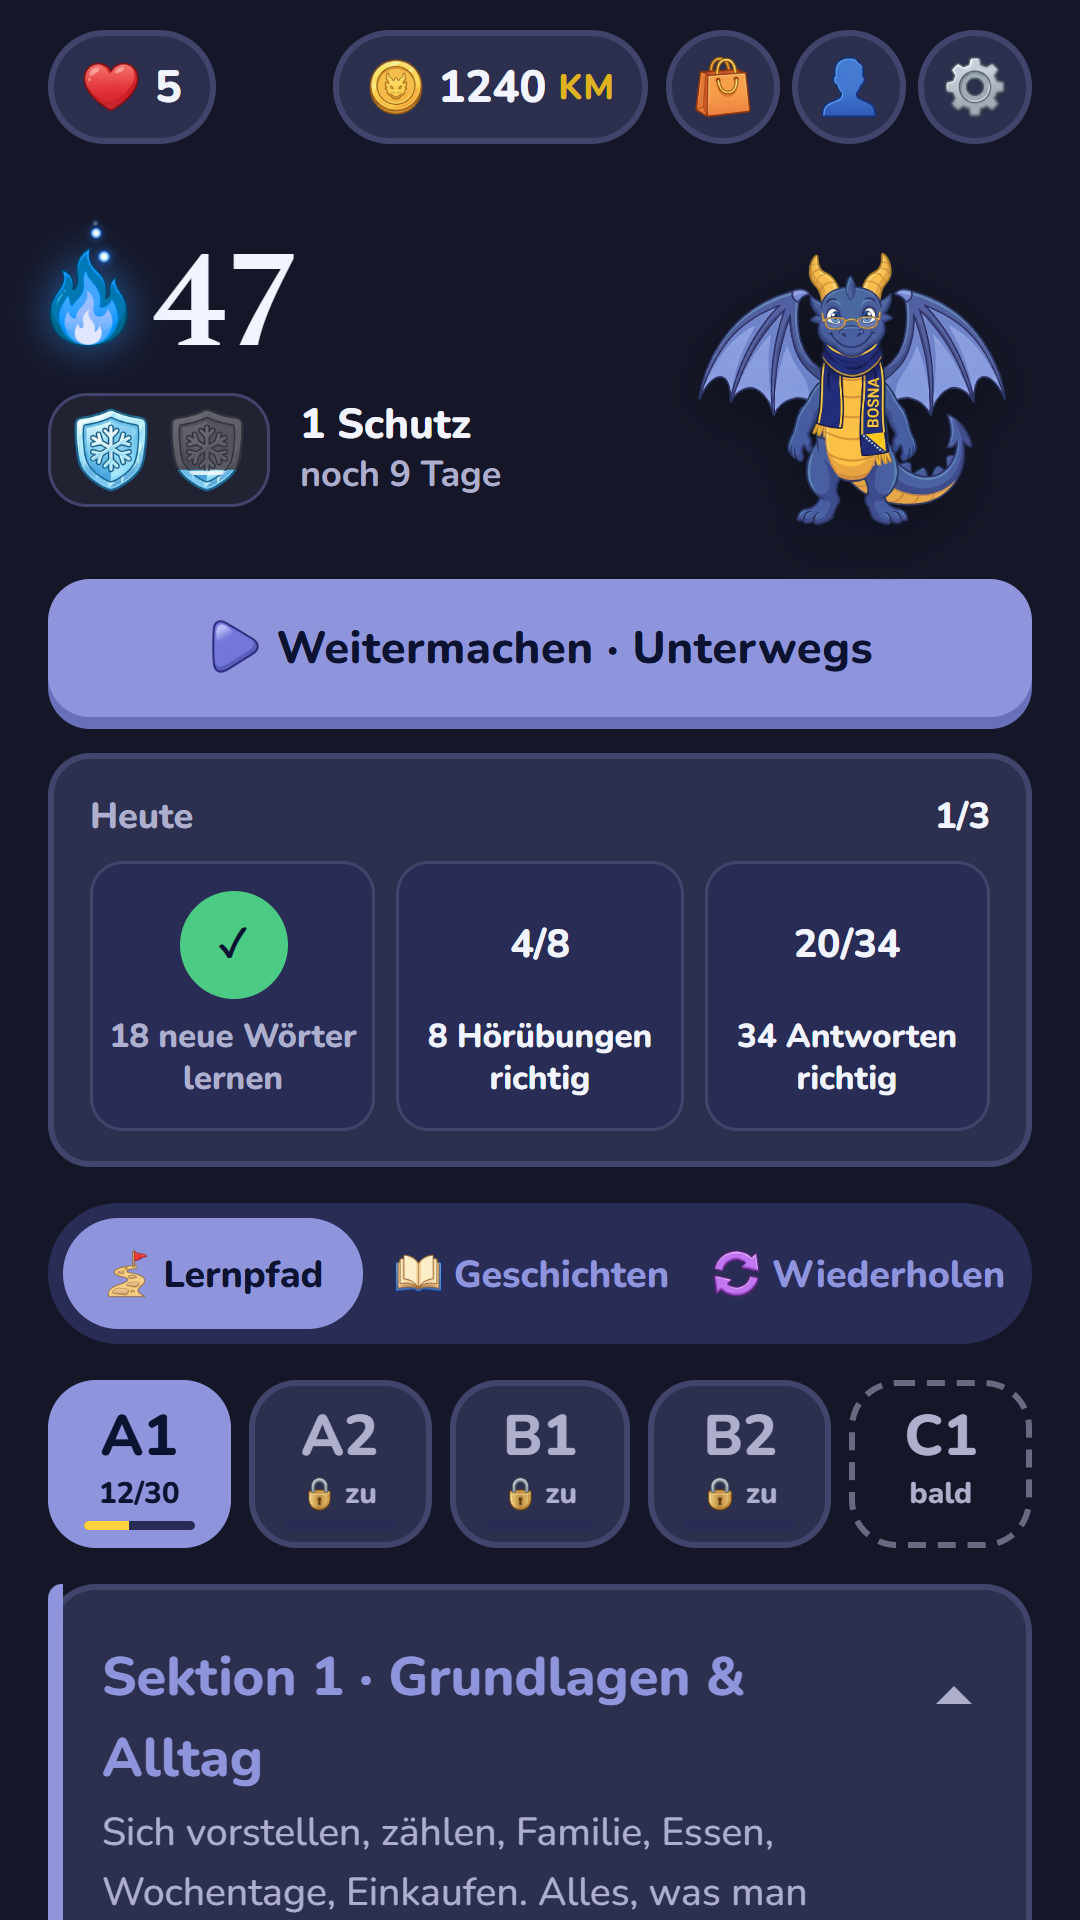
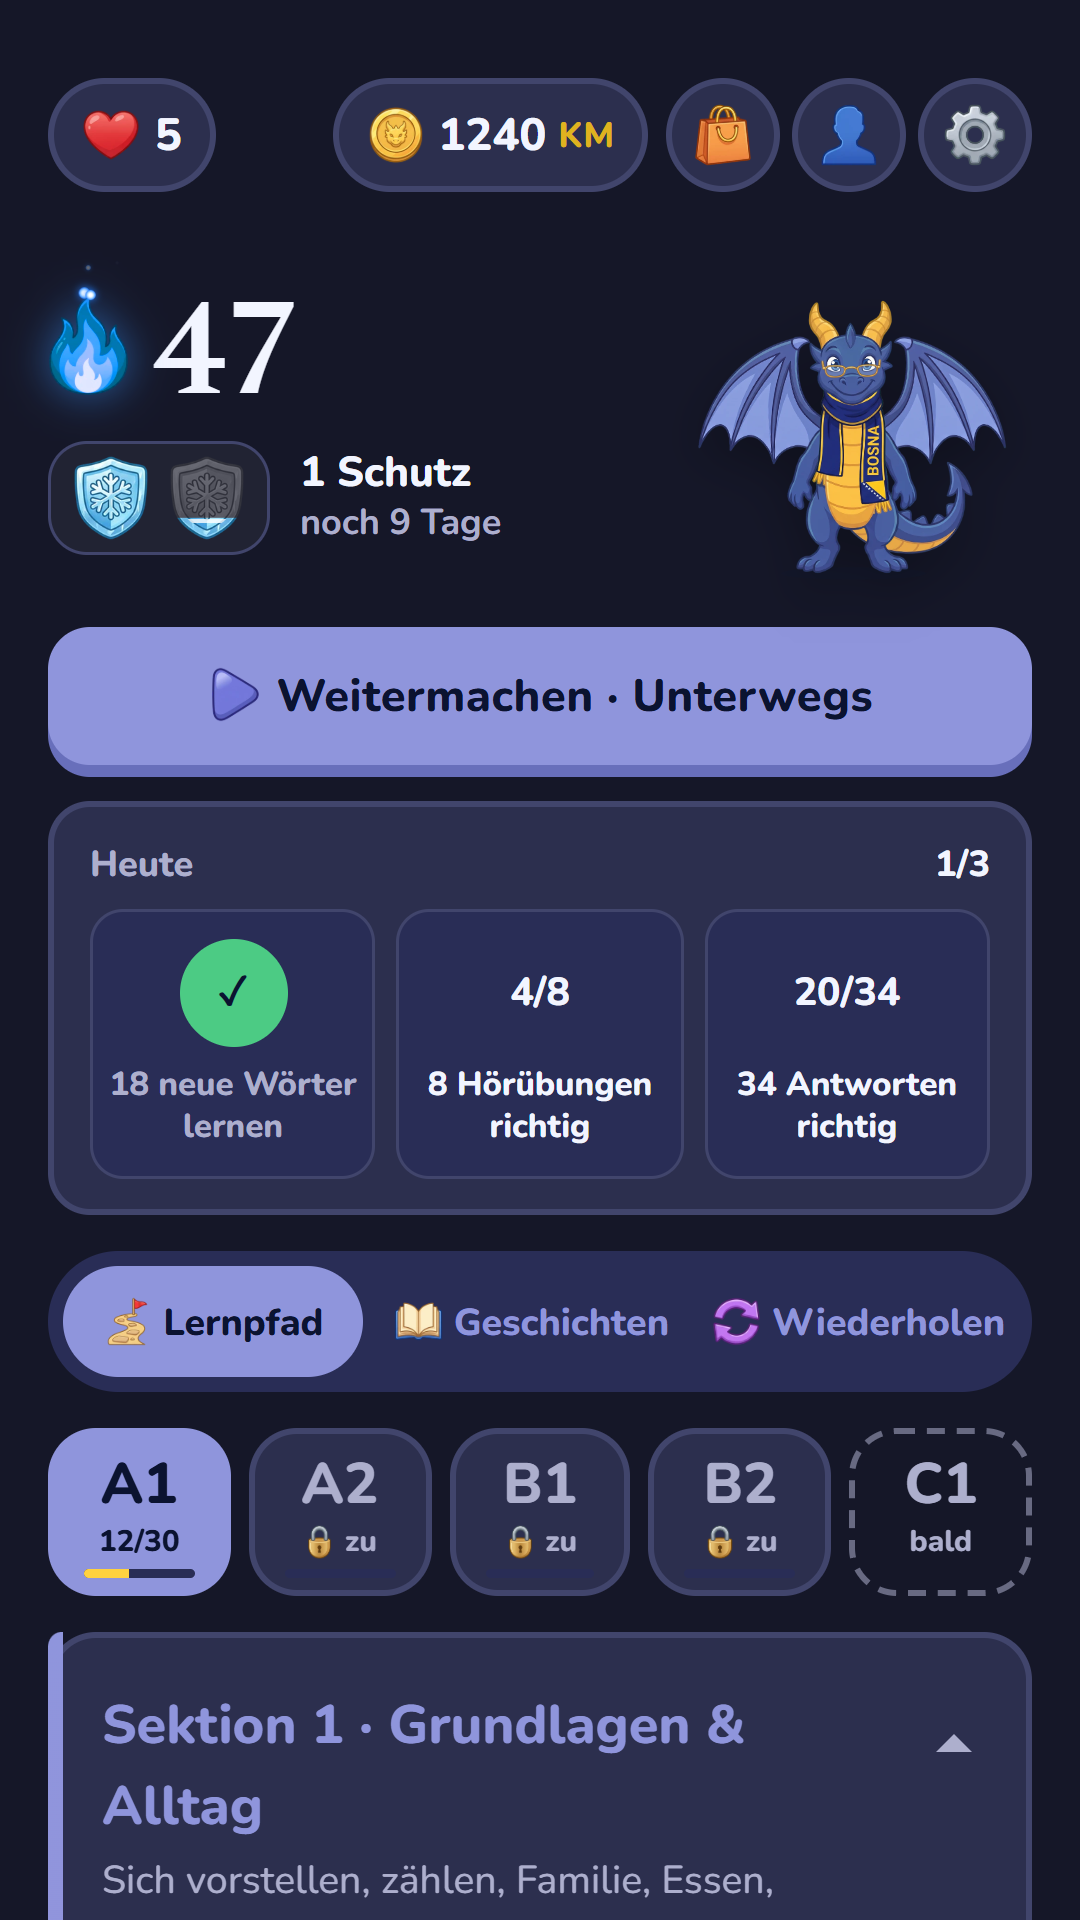
Store-Bilder: über der Kopfleiste so viel Luft wie in der App (Offen-Liste 8)
Ajdin zur Prüfung nach dem Feinschliff: „ja ist schon knapp“. Auf 7 Zoll
Bild 1 (de, en, tr, nl, da) stand die Kopfleiste 3 bis 4 Punkte unter dem
Rand, am Handy auf Bild 1 9 bis 10 und die Karte der Lektion auf Bild 4
9 bis 11; in der App sind es 16 bis 17.

- Steht die Seite ganz oben, bleiben darüber mindestens __luftMin = 16
  Punkte (der Rand oben der App). Hinauf rollt sie nur bis dahin, sonst
  wächst der Rand oben um bis zu 24 Punkte. Vor jedem Bild bricht das
  Skript ab, wenn es weniger sind; die Ausgabe nennt „Luft oben“.
- Bild 4 und 6: von den Sätzen gilt der, der am wenigsten mehr Rand oben
  braucht (__satzFrei), damit die Karte möglichst wie auf Bild 3 und 5
  steht.
- store/screenshots: deutsches Handy-Bild 1 (Kopfleiste 26 Punkte unter
  dem Rand) und Bild 4 (Karte 16) neu.
- Tests für __luftMin, die Ausgabe und die Satzwahl.

diff --git a/store/bilder_machen/bilder_playwright.py b/store/bilder_machen/bilder_playwright.py
@@ -213,6 +213,18 @@ RAND_PRUEFUNG = r"""
       if(window.__tagwerk01) tagwerk[today()] = JSON.parse(window.__tagwerk01);
       if(typeof renderLives === 'function') renderLives();
     };
+    // Luft ueber dem obersten Teil (Kopfleiste), wenn die Seite ganz oben
+    // steht: mindestens __luftMin Punkte (Pruefung nach dem Feinschliff
+    // 16.11.2026: auf 7 Zoll Bild 1 stand die Kopfleiste bei de, en, tr, nl
+    // und da nur 3 bis 4 Punkte unter dem Rand, am Handy auf Bild 1 9 bis 10
+    // und auf Bild 4 9 bis 11, und wirkte gedraengt - wie vorher die
+    // Reiterleiste ganz oben auf fr Handy Bild 2). 16 ist der Rand oben der
+    // App (padding-top von body); dort steht die Kopfleiste 16 bis 17 Punkte
+    // unter dem Rand, die Karte einer Lektion 16, auf 10 Zoll 21 bis 22
+    // (Probe 16.11.2026). Erst stand hier 8 - das war noch gedraengt (Ajdin:
+    // "ja ist schon knapp"). __luftOben() misst sie in Punkten der Seite.
+    window.__luftMin = 16;
+    window.__luftOben = () => window.__kopfRaum() / faktor() + 0.5;
     // Den oberen Rand der Seite (padding-top von body, 16 Punkte) wie in
     // der App; __randFrei vergroessert ihn nur fuer das eine Bild.
     window.__polsterZurueck = () => {
@@ -223,14 +235,21 @@ RAND_PRUEFUNG = r"""
     // "Weiter" mit Tastaturfokus), dann die naechste Lage ohne Anschnitt,
     // Punkt fuer Punkt abwechselnd in beide Richtungen:
     //   - die Seite rollt hinauf, bis oben etwas anstoesst (opts.runter,
-    //     ohne: __kopfRaum, hoechstens 40 Punkte);
+    //     ohne: __kopfRaum, hoechstens 40 Punkte); steht sie ganz oben, nur
+    //     so weit, dass ueber der Kopfleiste __luftMin Punkte bleiben;
     //   - die Seite rollt hinunter, wenn sie nicht ganz oben steht (opts.hoch);
     //   - steht sie ganz oben, rueckt sie stattdessen tiefer: der Rand ueber
-    //     der Kopfleiste waechst um bis zu opts.polster Punkte (ohne: 12).
+    //     der Kopfleiste waechst um bis zu opts.polster Punkte (ohne: 24).
     //     Ohne das gab es auf 10 Zoll sv und nb Bild 1 keine Lage ohne halben
     //     Level-Titel ("Veckodagar"), und auf 7 Zoll de Bild 8 stand die
-    //     Kopfleiste sonst einen Punkt unter dem Rand. Ein paar Punkte mehr
-    //     Rand oben sieht niemand; die App selbst bleibt, wie sie ist.
+    //     Kopfleiste sonst einen Punkt unter dem Rand. Auf 7 Zoll Bild 1 (de,
+    //     en, tr, nl, da) ragte die Beschreibung des letzten Levels ("Essen &
+    //     Trinken") ins Bild; ganz zu sehen ist sie erst 13 bis 14 Punkte
+    //     weiter oben, mit der Kopfleiste 3 bis 4 Punkte unter dem Rand.
+    //     Darum dort 21 Punkte mehr Rand oben: das Level liegt ganz unter
+    //     dem Rand, und ueber der Kopfleiste ist Luft wie unter einer
+    //     Statusleiste (Probe 16.11.2026: von 12 Punkten hinauf bis 20 Punkte
+    //     mehr Rand ging nichts auf). Die App selbst bleibt, wie sie ist.
     // opts.nurPruefen: nichts verschieben, nur nachsehen (fuer Bilder, die
     // ihre Lage schon selbst gesucht haben). Chrome rollt hier nur um ganze
     // Punkte (Probe 16.11.2026), darum in Schritten von einem Punkt.
@@ -246,10 +265,11 @@ RAND_PRUEFUNG = r"""
       window.__polsterZurueck();
       await bild();
       const b = document.body, pt0 = parseFloat(getComputedStyle(b).paddingTop) || 0;
-      const f = faktor(), y0 = scrollY;
-      const runter = Math.min(opts.runter === undefined ? window.__kopfRaum() : opts.runter, 40 * f);
+      const f = faktor(), y0 = scrollY, kopf = window.__kopfRaum();
+      window.__obenStand = y0 < 0.5;   // fuer die Pruefung der Luft oben (ein_lauf)
+      const runter = Math.min(opts.runter === undefined ? (y0 < 0.5 ? Math.max(0, kopf - window.__luftMin * f) : kopf) : opts.runter, 40 * f);
       const hoch = Math.min(opts.hoch || 0, y0);
-      const polster = y0 < 0.5 ? (opts.polster === undefined ? 12 : opts.polster) : 0;
+      const polster = y0 < 0.5 ? (opts.polster === undefined ? 24 : opts.polster) : 0;
       const wege = [];
       for(let k = 0; k <= Math.max(runter, hoch, polster); k++){
         if(k <= runter + 1e-6) wege.push(['rollen', k]);
@@ -267,6 +287,25 @@ RAND_PRUEFUNG = r"""
       window.__polsterZurueck();
       scrollTo({top: y0, behavior: 'instant'});
       await bild();
+      return '';
+    };
+    // Bild 4 und 6 (Pruefung nach dem Feinschliff 16.11.2026): Die Lektion
+    // steht ganz oben und darf nicht mehr hinauf (__luftMin), nur tiefer -
+    // dann steht ihre Karte aber tiefer als auf Bild 3 und 5 (16 Punkte unter
+    // dem Rand). Am Handy schnitt der Rand ohne mehr Rand oben je nach Satz
+    // "Lektion abbrechen" oder "Ueberspringen"; "Gdje je crvena torba?"
+    // brauchte 23 Punkte mehr, "Ne znam gdje je ključ." 13. Ein Satz mit mehr
+    // als 4 Punkten gilt darum erst ab dem 9. Versuch und nur, wenn kein Satz
+    // davor weniger brauchte (wahl.bester); im letzten Versuch jeder, der
+    // aufgeht. Gibt die Lage zurueck wie __randFrei, '' = naechster Satz.
+    window.__satzFrei = async (versuch, letzter, wahl) => {
+      const frei = await window.__randFrei();
+      const m = /Rand oben \+(\d+)/.exec(frei), k = m ? +m[1] : 0;
+      if(!frei || k <= 4 || letzter) return frei;
+      const gut = versuch >= 8 && k <= wahl.bester;
+      wahl.bester = Math.min(wahl.bester, k);
+      if(gut) return frei;
+      window.__polsterZurueck();
       return '';
     };
     return 1"""
@@ -440,10 +479,15 @@ SCHRITTE = [
     # "Lektion abbrechen" halb im Bild (nl, nb, fr). Die Seite rueckt darum
     # bis zu ihrem oberen Rand hinauf (__randFrei); reicht das nicht, kommt
     # ein anderer Satz (bis zu 12 Mal neu gemischt) - das Motiv bleibt.
+    # Pruefung danach (16.11.2026): Hinauf darf die Lektion nicht mehr (die
+    # Karte stand 9 bis 11 statt 16 Punkte unter dem Rand, siehe __luftMin),
+    # nur tiefer, und von den Saetzen gilt der, der dafuer am wenigsten
+    # braucht (__satzFrei).
     ("04-kacheln", """
         const passt = q => q.typ === 'kacheln' && q.s.bs.trim().split(/\\s+/).length >= 4;
         const rand = /^[.,!?¿¡:;"„“”«»…()]+|[.,!?¿¡:;"„“”«»…()]+$/g;
         let q = null, frei = '';
+        const wahl = {bester: Infinity};
         for(let versuch = 0; versuch < 12 && !frei; versuch++){
           if(versuch){ startLesson(); await new Promise(r=>setTimeout(r,600)); }
           let ziel = Lx.queue.findIndex((q, i) => i >= Lx.i && passt(q));
@@ -458,7 +502,7 @@ SCHRITTE = [
             if(b) b.click(); await new Promise(r=>setTimeout(r,450));
           }
           scrollTo(0,0); await new Promise(r=>setTimeout(r,500));
-          frei = await window.__randFrei();
+          frei = await window.__satzFrei(versuch, versuch === 11, wahl);
         }
         return q.s.bs + ' | ' + (frei || 'angeschnitten')"""),
     # Bis 11.10.2026 stand hier "05-richtig": dieselbe Aufgabe wie 04, nur
@@ -485,13 +529,15 @@ SCHRITTE = [
     # am Ende, mindestens vier Wörter) - "Sedam, osam, ___" passt nicht zu
     # "Ganze Sätze selbst schreiben". Dafür bis zu 40 Mal neu mischen.
     # 16.11.2026 (Feinschliff): wie 04 - erst hinaufruecken, sonst ein
-    # anderer Satz.
+    # anderer Satz. Pruefung danach: wie 04 nicht mehr hinauf, und der Satz,
+    # der am wenigsten mehr Rand oben braucht (__satzFrei).
     ("06-luecke", """
         const wb = document.querySelector('#lBody .weiterbox .btn');
         if(wb){ wb.click(); await new Promise(r=>setTimeout(r,500)); }
         const passt = q => q.typ === 'gap' && !(window.__f5 || '').includes(q.s.text)
           && /[.?!]\\s*$/.test(q.s.text) && q.s.text.trim().split(/\\s+/).length >= 4;
         let q = null, frei = '';
+        const wahl = {bester: Infinity};
         for(let versuch = 0; versuch < 12 && !frei; versuch++){
           if(versuch){ startLesson(); await new Promise(r=>setTimeout(r,600)); }
           let ziel = Lx.queue.findIndex((q, i) => i >= Lx.i && passt(q));
@@ -501,7 +547,7 @@ SCHRITTE = [
           q = Lx.queue[Lx.i]; const inp = document.getElementById('xIn');
           inp.value = q.s.answer.split(' / ')[0]; inp.dispatchEvent(new Event('input', {bubbles:true})); inp.blur();
           scrollTo(0,0); await new Promise(r=>setTimeout(r,300));
-          frei = await window.__randFrei();
+          frei = await window.__satzFrei(versuch, versuch === 11, wahl);
         }
         return q.s.text + ' | ' + (frei || 'angeschnitten')"""),
     ("07-geschichte", """
@@ -730,7 +776,7 @@ def ein_lauf(browser, basis, sprache, ziel, g, geraet, farbe, version, kennung):
        "document.head.append(st); return 1")
     pfade, stand1 = [], None
     for name, code in SCHRITTE:
-        js("window.__polsterZurueck(); return 1")   # Rand oben wieder wie in der App
+        js("window.__polsterZurueck(); window.__obenStand = false; return 1")   # Rand oben wieder wie in der App
         ergebnis = js(code)
         lage = js("return await window.__randFrei(%s)" % json.dumps(SPIELRAUM.get(name, {})))
         stoert = js(NICHTS_IM_BILD)
@@ -747,6 +793,14 @@ def ein_lauf(browser, basis, sprache, ziel, g, geraet, farbe, version, kennung):
         if schnitte:
             raise Angeschnitten("%s %s %s: am Rand angeschnitten: %s"
                                 % (sprache, geraet, name, " | ".join(schnitte)))
+        # Stand die Seite ganz oben, klebt die Kopfleiste nicht am Rand
+        # (Pruefung nach dem Feinschliff 16.11.2026, siehe __luftMin)
+        luft = js("return window.__obenStand ? [window.__luftOben(), window.__luftMin] : null")
+        if luft and luft[0] < luft[1] - 0.5:
+            raise SystemExit("%s %s %s: ueber der Kopfleiste nur %.1f Punkte Luft statt %s"
+                             % (sprache, geraet, name, luft[0], luft[1]))
+        if luft:
+            lage += " | Luft oben %.0f" % luft[0]
         pfad = os.path.join(ziel, name + ".png")
         for _ in range(4):
             js("return await window.__drachePausieren()")

diff --git a/tests/test_store_bilder.py b/tests/test_store_bilder.py
@@ -17,6 +17,9 @@ Geprüft wird ohne Browser:
     obere oder untere Rand eine Zeile oder einen Knopf durchschneidet, wenn
     KM oder Tagesaufgaben anders sind als auf Bild 1, und es nimmt den
     Tastaturfokus weg und wartet, bis der Drache die Augen offen hat.
+  - Danach (Prüfung am selben Tag): steht die Seite ganz oben, bleiben über
+    der Kopfleiste mindestens 16 Punkte wie in der App; auf 7 Zoll Bild 1
+    klebte sie am Rand, am Handy auf Bild 1 und 4 stand sie zu knapp.
 """
 import inspect
 import json
@@ -114,11 +117,99 @@ def test_rand_oben_nur_fuer_ein_bild():
     wieder wie in der App (10 Zoll sv, nb Bild 1, 7 Zoll de Bild 8)."""
     js = BP.RAND_PRUEFUNG
     assert "b.style.paddingTop = (pt0 + k) + 'px';" in js
-    assert "const polster = y0 < 0.5 ? (opts.polster === undefined ? 12 : opts.polster) : 0;" in js
+    # bis zu 24 Punkte: 7 Zoll Bild 1 braucht 21 (siehe test_kopfleiste_nicht_am_rand)
+    assert "const polster = y0 < 0.5 ? (opts.polster === undefined ? 24 : opts.polster) : 0;" in js
     quelle = inspect.getsource(BP.ein_lauf)
-    assert quelle.index('js("window.__polsterZurueck(); return 1")') < quelle.index("ergebnis = js(code)")
+    assert quelle.index('js("window.__polsterZurueck(); window.__obenStand = false; return 1")') < quelle.index("ergebnis = js(code)")
     # der Rand, der da waechst, ist der der App
     assert re.search(r"^  body\{[^}]*padding:16px 16px 48px;", _app(), re.M | re.S)
+
+
+def _luft_min():
+    m = re.findall(r"window\.__luftMin = (\d+);", BP.RAND_PRUEFUNG)
+    assert len(m) == 1, m
+    return int(m[0])
+
+
+def test_kopfleiste_nicht_am_rand():
+    """Pruefung nach dem Feinschliff 16.11.2026: Auf 7 Zoll Bild 1 (de, en,
+    tr, nl, da) rollte __randFrei die Seite 13 bis 14 Punkte hinauf, und die
+    Kopfleiste stand nur 3 bis 4 Punkte unter dem Rand - gedraengt wie vorher
+    die Reiterleiste auf fr Handy Bild 2. Steht die Seite ganz oben, rollt sie
+    jetzt nur so weit, dass ueber der Kopfleiste __luftMin Punkte bleiben,
+    und vor dem Bild bricht das Skript ab, wenn es doch weniger sind."""
+    js = BP.RAND_PRUEFUNG
+    assert "window.__luftMin = 16;" in js
+    assert "window.__luftOben = () => window.__kopfRaum() / faktor() + 0.5;" in js
+    frei = js.split("window.__randFrei = async", 1)[1]
+    assert "window.__obenStand = y0 < 0.5;" in frei
+    assert "(y0 < 0.5 ? Math.max(0, kopf - window.__luftMin * f) : kopf)" in frei
+    # gesetzt nur, wo __randFrei selbst sucht (nicht beim blossen Nachpruefen),
+    # und nur die Seite ganz oben zaehlt: Bild 2 und Bild 8 am Handy rollen selbst
+    assert frei.index("if(opts.nurPruefen)") < frei.index("window.__obenStand = y0 < 0.5;")
+    quelle = inspect.getsource(BP.ein_lauf)
+    assert 'luft = js("return window.__obenStand ? [window.__luftOben(), window.__luftMin] : null")' in quelle
+    assert re.search(r"if luft and luft\[0\] < luft\[1\] - 0\.5:\s+raise SystemExit\(", quelle)
+    # vor jedem Schritt zurueckgesetzt, und geprueft wird vor dem Bild
+    assert quelle.index("window.__obenStand = false;") < quelle.index("ergebnis = js(code)")
+    assert quelle.index("luft = js(") < quelle.index("seite.screenshot(")
+    # die Kopfleiste, ueber der die Luft gemessen wird, steht in der App ganz oben
+    app = _app()
+    assert 'id="livesBar"' in app and 'id="muenzBar"' in app
+
+
+def test_luft_oben_wie_in_der_app():
+    """Ajdin zur Pruefung ("ja ist schon knapp"): 8 Punkte waren noch
+    gedraengt. __luftMin ist der Rand oben der App (padding-top von body):
+    so viel Luft hat dort die Kopfleiste und die Karte einer Lektion. Mehr
+    darf es nicht sein - sonst brauchte jede Seite, die ganz oben steht, mehr
+    Rand als in der App -, weniger soll es nicht sein."""
+    m = re.search(r"^  body\{[^}]*padding:(\d+)px \d+px \d+px;", _app(), re.M | re.S)
+    assert m, "padding von body nicht gefunden"
+    assert _luft_min() == int(m.group(1)) == 16
+    # Rand oben (padding) und Luft ueber der Kopfleiste in denselben Punkten:
+    # hinauf rollt die Seite oben nur bis zur Luft __luftMin, der Rand waechst
+    # bis 24 Punkte (7 Zoll Bild 1 braucht 21)
+    frei = BP.RAND_PRUEFUNG.split("window.__randFrei = async", 1)[1]
+    assert "Math.max(0, kopf - window.__luftMin * f)" in frei
+    assert "opts.polster === undefined ? 24 : opts.polster" in frei
+
+
+def test_luft_oben_in_der_ausgabe():
+    """Die Ausgabe nennt je Bild, das ganz oben steht, die Luft ueber der
+    Kopfleiste ("Luft oben 26") - nach der Pruefung, also nur fuer Bilder,
+    die sie bestanden haben."""
+    quelle = inspect.getsource(BP.ein_lauf)
+    zeile = 'lage += " | Luft oben %.0f" % luft[0]'
+    assert zeile in quelle
+    assert quelle.index("raise SystemExit(\"%s %s %s: ueber der Kopfleiste") < quelle.index(zeile)
+    assert quelle.index(zeile) < quelle.index('print("  %-16s %s | %s" % (name,')
+
+
+def test_bild4_und_6_satz_mit_wenig_rand():
+    """Bild 4 und 6 duerfen oben nicht mehr hinauf, nur tiefer (mehr Rand
+    oben). Am Handy brauchte "Gdje je crvena torba?" dafuer 23 Punkte,
+    "Ne znam gdje je ključ." 13: die Karte stand dann viel tiefer als auf
+    Bild 3 und 5. Ein Satz mit mehr als 4 Punkten gilt erst ab dem 9. Versuch
+    und nur, wenn keiner davor weniger brauchte; im letzten Versuch jeder."""
+    js = BP.RAND_PRUEFUNG
+    satz = js.split("window.__satzFrei = async (versuch, letzter, wahl) => {", 1)[1].split("};", 1)[0]
+    assert "const frei = await window.__randFrei();" in satz
+    assert "if(!frei || k <= 4 || letzter) return frei;" in satz
+    assert "const gut = versuch >= 8 && k <= wahl.bester;" in satz
+    assert satz.index("const gut =") < satz.index("wahl.bester = Math.min(wahl.bester, k);")
+    # verworfen: Rand oben wieder wie in der App, und der naechste Satz kommt
+    assert satz.index("window.__polsterZurueck();") < satz.index("return '';")
+    # liest die Ausgabe von __randFrei ("frei Rand oben +13")
+    assert "' Rand oben +' + k" in js and r"/Rand oben \+(\d+)/" in satz
+    schritte = dict(BP.SCHRITTE)
+    for name in ("04-kacheln", "06-luecke"):
+        s = schritte[name]
+        n = int(re.search(r"for\(let versuch = 0; versuch < (\d+) && !frei; versuch\+\+\)", s).group(1))
+        assert "const wahl = {bester: Infinity};" in s, name
+        assert "frei = await window.__satzFrei(versuch, versuch === %d, wahl);" % (n - 1) in s, name
+        assert n > 8, name    # nach den 8 Versuchen mit wenig Rand bleibt noch Raum
+        assert "window.__randFrei()" not in s, name
 
 
 def test_rand_misst_streng():
@@ -208,12 +299,12 @@ def test_drache_mit_offenen_augen():
 
 
 def test_bild4_und_6_mischen_neu_statt_anschnitt():
-    """Reicht das Hinaufruecken nicht, kommt ein anderer Satz - das Motiv
-    (Kacheln, Lueckensatz) bleibt."""
+    """Reicht die Lage nicht, kommt ein anderer Satz - das Motiv (Kacheln,
+    Lueckensatz) bleibt."""
     schritte = dict(BP.SCHRITTE)
     for name in ("04-kacheln", "06-luecke"):
         assert "for(let versuch = 0; versuch < 12 && !frei; versuch++)" in schritte[name], name
-        assert "frei = await window.__randFrei();" in schritte[name], name
+        assert "frei = await window.__satzFrei(versuch, versuch === 11, wahl);" in schritte[name], name
 
 
 def test_bild8_ohne_halbe_zeile():
